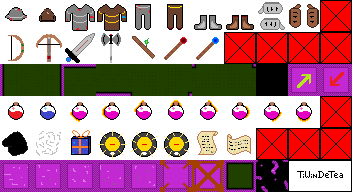
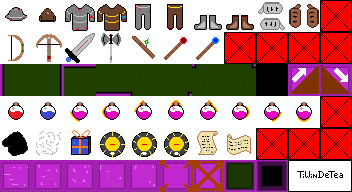
Upgrading tiles pictures and debugging the map generation

Changed region(s): [[0.8125, 0.3438, 1.0, 0.5], [0.625, 0.8125, 0.8438, 1.0]]

diff --git a/src/main/java/com/github/tiwindetea/dungeonoflegend/model/Map.java b/src/main/java/com/github/tiwindetea/dungeonoflegend/model/Map.java
@@ -337,6 +337,8 @@ public class Map {
         this.bulbPosition = positions[0];
         this.stairsDownPosition = positions[1];
         this.stairsUpPosition = positions[2];
+        this.map[this.stairsUpPosition.x][this.stairsUpPosition.y] = Tile.STAIR_UP;
+        this.map[this.stairsDownPosition.x][this.stairsDownPosition.y] = Tile.STAIR_DOWN;
         rooms.addAll(corridors);
         return rooms;
     }

diff --git a/src/main/java/com/github/tiwindetea/dungeonoflegend/model/Node.java b/src/main/java/com/github/tiwindetea/dungeonoflegend/model/Node.java
@@ -25,12 +25,6 @@ public class Node {
         this.heuristic = heuristic;
     }
 
-    public Node(Vector2i pos, int heuristic) {
-        this.distance = Integer.MAX_VALUE;
-        this.heuristic = heuristic;
-        this.pos = pos;
-    }
-
     public boolean equals(Object o) {
         /* asserting o to be a Node */
         return this.equals((Node) o);
